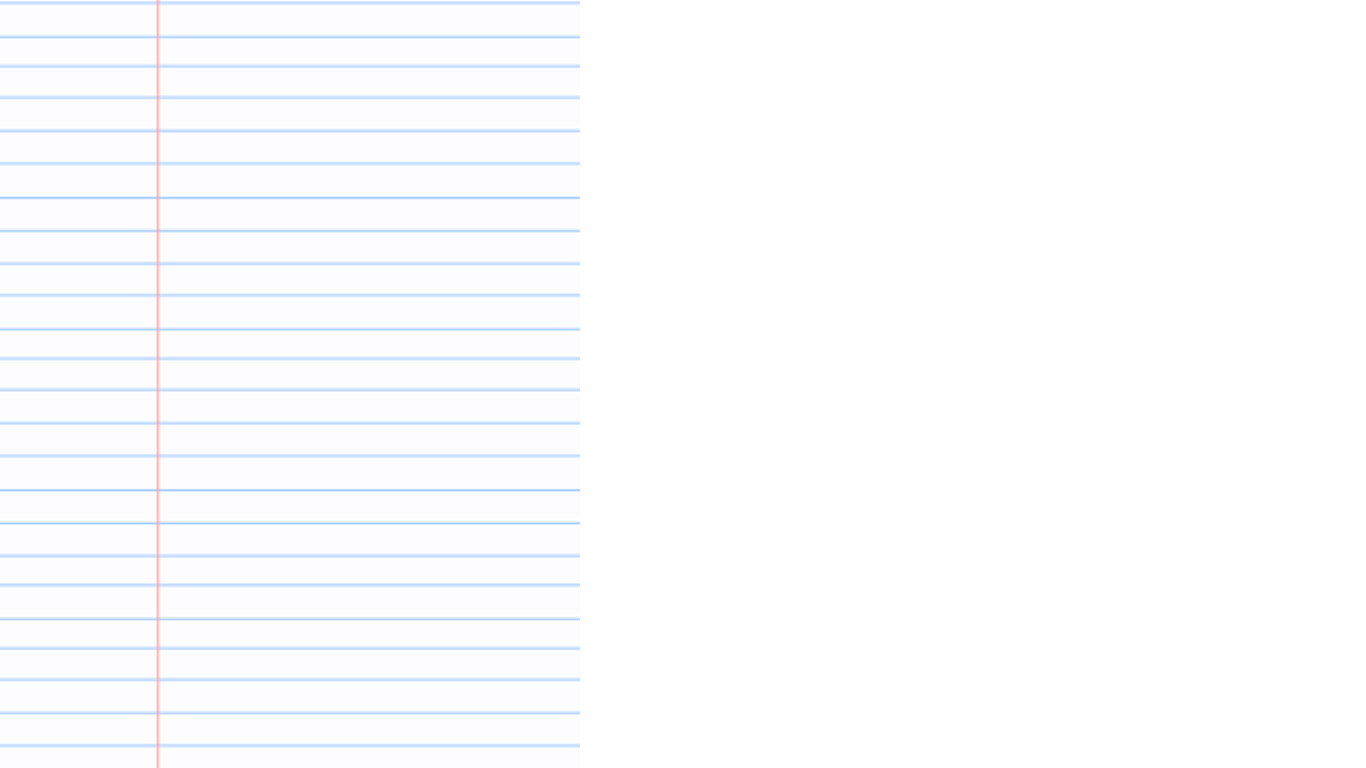
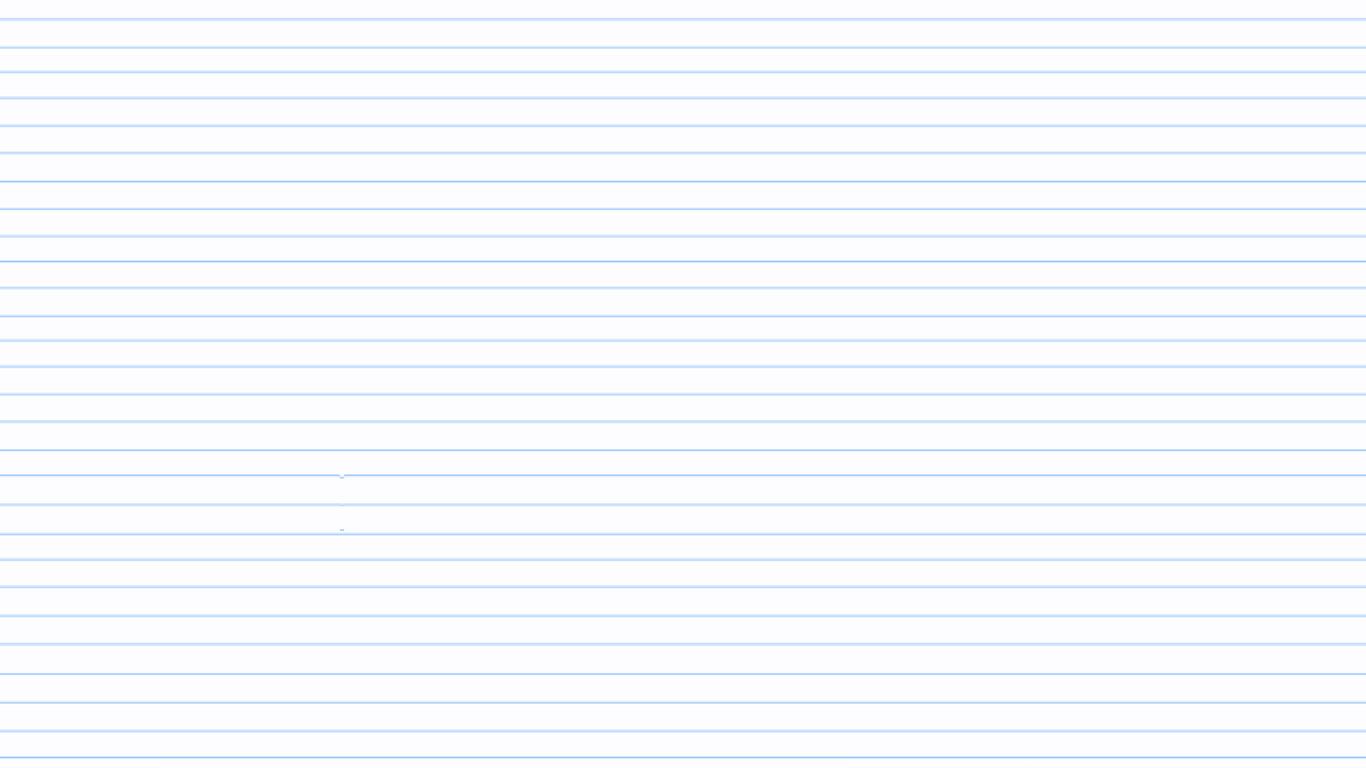
Add lined paper background and blog-name

Changed region(s): [[0.0, 0.125, 1.0, 1.0], [0.0, 0.0, 1.0, 0.125]]

diff --git a/assets/css/styles.scss b/assets/css/styles.scss
@@ -8,10 +8,14 @@
   border-radius: 50%;
   border: 2px solid #c2dbff;
   display: block;
-  margin: 0 auto 12px; /* Center the image horizontally */
-  
+  margin: 0 auto; /* Center the image horizontally */
 }
 
+.blog-name {
+  background-color: yellow;
+  display: inline-block;
+  padding: 2px 5px;
+}
 
 /* The sidebar menu */
 .sidenav {
@@ -21,9 +25,10 @@
     z-index: 1; /* Stay on top */
     top: 0; /* Stay at the top */
     left: 0;
-    background-color: white; /* Black */
+    background-color: white;
     overflow-x: hidden; /* Disable horizontal scroll */
     padding-top: 20px;
+    border-right: solid red;
     background-image: url(lined-paper-background.png);
   }
   
@@ -31,10 +36,9 @@
   .sidenav a {
     padding: 6px 8px 6px 16px;
     text-decoration: none;
-    font-size: 25px;
+    font-size: 20px;
     color: black;
     display: block;
-    
   }
 
 /* Add unique background colors */
@@ -58,19 +62,33 @@
   background-color: #a4fff3;
 }
 
-
+.sidenav a:nth-child(6) {
+  background-color: #e5a4ff;
+}
   
   /* When you mouse over the navigation links, change their color */
   .sidenav a:hover {
-    color: #f1f1f1;
+    color: blue;
+  }
+
+  nav a.current {
+    font-weight: bold; /* Makes current link bolded */
   }
   
   /* Style page content */
   .main {
-    margin-left: 160px; /* Same as the width of the sidebar */
-    padding: 0px 10px;
+    margin-left: 150px; /* Same as the width of the sidebar */
+
+    background-color: white; /* White background for the text */
+    padding: 20px; /* Adds space around the text */
+    max-width: 800px; /* Limits the width of the text container */
+    box-shadow: 0 4px 6px rgba(0, 0, 0, 0.1); /* Optional: Adds a subtle shadow */
+    opacity: 0.8;
   }
 
+body {
+  background-image: url(lined-paper-background.png);
+  }
 
   /* On smaller screens, where height is less than 450px, change the style of the sidebar (less padding and a smaller font size) */
   @media screen and (max-height: 450px) {

diff --git a/_site/assets/css/styles.css b/_site/assets/css/styles.css
@@ -8,7 +8,13 @@
   border-radius: 50%;
   border: 2px solid #c2dbff;
   display: block;
-  margin: 0 auto 12px; /* Center the image horizontally */
+  margin: 0 auto; /* Center the image horizontally */
+}
+
+.blog-name {
+  background-color: yellow;
+  display: inline-block;
+  padding: 2px 5px;
 }
 
 /* The sidebar menu */
@@ -19,9 +25,10 @@
   z-index: 1; /* Stay on top */
   top: 0; /* Stay at the top */
   left: 0;
-  background-color: white; /* Black */
+  background-color: white;
   overflow-x: hidden; /* Disable horizontal scroll */
   padding-top: 20px;
+  border-right: solid red;
   background-image: url(lined-paper-background.png);
 }
 
@@ -29,7 +36,7 @@
 .sidenav a {
   padding: 6px 8px 6px 16px;
   text-decoration: none;
-  font-size: 25px;
+  font-size: 20px;
   color: black;
   display: block;
 }
@@ -55,15 +62,31 @@
   background-color: #a4fff3;
 }
 
+.sidenav a:nth-child(6) {
+  background-color: #e5a4ff;
+}
+
 /* When you mouse over the navigation links, change their color */
 .sidenav a:hover {
-  color: #f1f1f1;
+  color: blue;
+}
+
+nav a.current {
+  font-weight: bold; /* Makes current link bolded */
 }
 
 /* Style page content */
 .main {
-  margin-left: 160px; /* Same as the width of the sidebar */
-  padding: 0px 10px;
+  margin-left: 150px; /* Same as the width of the sidebar */
+  background-color: white; /* White background for the text */
+  padding: 20px; /* Adds space around the text */
+  max-width: 800px; /* Limits the width of the text container */
+  box-shadow: 0 4px 6px rgba(0, 0, 0, 0.1); /* Optional: Adds a subtle shadow */
+  opacity: 0.8;
+}
+
+body {
+  background-image: url(lined-paper-background.png);
 }
 
 /* On smaller screens, where height is less than 450px, change the style of the sidebar (less padding and a smaller font size) */

diff --git a/_site/authors/jill.html b/_site/authors/jill.html
@@ -16,11 +16,11 @@
 <link rel="canonical" href="http://localhost:4000/authors/jill.html" />
 <meta property="og:url" content="http://localhost:4000/authors/jill.html" />
 <meta property="og:type" content="article" />
-<meta property="article:published_time" content="2025-01-11T21:47:13-08:00" />
+<meta property="article:published_time" content="2025-01-11T23:01:03-08:00" />
 <meta name="twitter:card" content="summary" />
 <meta property="twitter:title" content="Jill" />
 <script type="application/ld+json">
-{"@context":"https://schema.org","@type":"BlogPosting","dateModified":"2025-01-11T21:47:13-08:00","datePublished":"2025-01-11T21:47:13-08:00","description":"Jill is an avid fruit grower based in the south of France.","headline":"Jill","mainEntityOfPage":{"@type":"WebPage","@id":"http://localhost:4000/authors/jill.html"},"url":"http://localhost:4000/authors/jill.html"}</script>
+{"@context":"https://schema.org","@type":"BlogPosting","dateModified":"2025-01-11T23:01:03-08:00","datePublished":"2025-01-11T23:01:03-08:00","description":"Jill is an avid fruit grower based in the south of France.","headline":"Jill","mainEntityOfPage":{"@type":"WebPage","@id":"http://localhost:4000/authors/jill.html"},"url":"http://localhost:4000/authors/jill.html"}</script>
 <!-- End Jekyll SEO tag -->
 
   </head>
@@ -30,7 +30,7 @@
     <img src="https://i.postimg.cc/9QVxCw2F/maplestory-pfp-192x192.png" alt="Profile Picture" class="profile-image">
 
 <center>
-  <h3>Blog Name</h3> 
+  <h3 class = "blog-name">Lined Paper</h3> 
 </center>
 
 <nav>

diff --git a/_site/authors/ted.html b/_site/authors/ted.html
@@ -16,11 +16,11 @@
 <link rel="canonical" href="http://localhost:4000/authors/ted.html" />
 <meta property="og:url" content="http://localhost:4000/authors/ted.html" />
 <meta property="og:type" content="article" />
-<meta property="article:published_time" content="2025-01-11T21:47:13-08:00" />
+<meta property="article:published_time" content="2025-01-11T23:01:03-08:00" />
 <meta name="twitter:card" content="summary" />
 <meta property="twitter:title" content="Ted" />
 <script type="application/ld+json">
-{"@context":"https://schema.org","@type":"BlogPosting","dateModified":"2025-01-11T21:47:13-08:00","datePublished":"2025-01-11T21:47:13-08:00","description":"Ted has been eating fruit since he was baby.","headline":"Ted","mainEntityOfPage":{"@type":"WebPage","@id":"http://localhost:4000/authors/ted.html"},"url":"http://localhost:4000/authors/ted.html"}</script>
+{"@context":"https://schema.org","@type":"BlogPosting","dateModified":"2025-01-11T23:01:03-08:00","datePublished":"2025-01-11T23:01:03-08:00","description":"Ted has been eating fruit since he was baby.","headline":"Ted","mainEntityOfPage":{"@type":"WebPage","@id":"http://localhost:4000/authors/ted.html"},"url":"http://localhost:4000/authors/ted.html"}</script>
 <!-- End Jekyll SEO tag -->
 
   </head>
@@ -30,7 +30,7 @@
     <img src="https://i.postimg.cc/9QVxCw2F/maplestory-pfp-192x192.png" alt="Profile Picture" class="profile-image">
 
 <center>
-  <h3>Blog Name</h3> 
+  <h3 class = "blog-name">Lined Paper</h3> 
 </center>
 
 <nav>

diff --git a/_includes/navigation.html b/_includes/navigation.html
@@ -1,7 +1,7 @@
 <img src="https://i.postimg.cc/9QVxCw2F/maplestory-pfp-192x192.png" alt="Profile Picture" class="profile-image">
 
 <center>
-  <h3>Blog Name</h3> 
+  <h3 class = "blog-name">{{ site.blog-name }}</h3> 
 </center>
 
 <nav>

diff --git a/_site/2018/08/20/bananas.html b/_site/2018/08/20/bananas.html
@@ -31,7 +31,7 @@
     <img src="https://i.postimg.cc/9QVxCw2F/maplestory-pfp-192x192.png" alt="Profile Picture" class="profile-image">
 
 <center>
-  <h3>Blog Name</h3> 
+  <h3 class = "blog-name">Lined Paper</h3> 
 </center>
 
 <nav>

diff --git a/_site/2018/08/21/apples.html b/_site/2018/08/21/apples.html
@@ -31,7 +31,7 @@
     <img src="https://i.postimg.cc/9QVxCw2F/maplestory-pfp-192x192.png" alt="Profile Picture" class="profile-image">
 
 <center>
-  <h3>Blog Name</h3> 
+  <h3 class = "blog-name">Lined Paper</h3> 
 </center>
 
 <nav>

diff --git a/_site/2018/08/22/kiwifruit.html b/_site/2018/08/22/kiwifruit.html
@@ -31,7 +31,7 @@
     <img src="https://i.postimg.cc/9QVxCw2F/maplestory-pfp-192x192.png" alt="Profile Picture" class="profile-image">
 
 <center>
-  <h3>Blog Name</h3> 
+  <h3 class = "blog-name">Lined Paper</h3> 
 </center>
 
 <nav>

diff --git a/_site/about.html b/_site/about.html
@@ -27,7 +27,7 @@
     <img src="https://i.postimg.cc/9QVxCw2F/maplestory-pfp-192x192.png" alt="Profile Picture" class="profile-image">
 
 <center>
-  <h3>Blog Name</h3> 
+  <h3 class = "blog-name">Lined Paper</h3> 
 </center>
 
 <nav>

diff --git a/_site/blog.html b/_site/blog.html
@@ -27,7 +27,7 @@
     <img src="https://i.postimg.cc/9QVxCw2F/maplestory-pfp-192x192.png" alt="Profile Picture" class="profile-image">
 
 <center>
-  <h3>Blog Name</h3> 
+  <h3 class = "blog-name">Lined Paper</h3> 
 </center>
 
 <nav>

diff --git a/_site/categories.html b/_site/categories.html
@@ -27,7 +27,7 @@
     <img src="https://i.postimg.cc/9QVxCw2F/maplestory-pfp-192x192.png" alt="Profile Picture" class="profile-image">
 
 <center>
-  <h3>Blog Name</h3> 
+  <h3 class = "blog-name">Lined Paper</h3> 
 </center>
 
 <nav>

diff --git a/_site/index.html b/_site/index.html
@@ -27,7 +27,7 @@
     <img src="https://i.postimg.cc/9QVxCw2F/maplestory-pfp-192x192.png" alt="Profile Picture" class="profile-image">
 
 <center>
-  <h3>Blog Name</h3> 
+  <h3 class = "blog-name">Lined Paper</h3> 
 </center>
 
 <nav>
